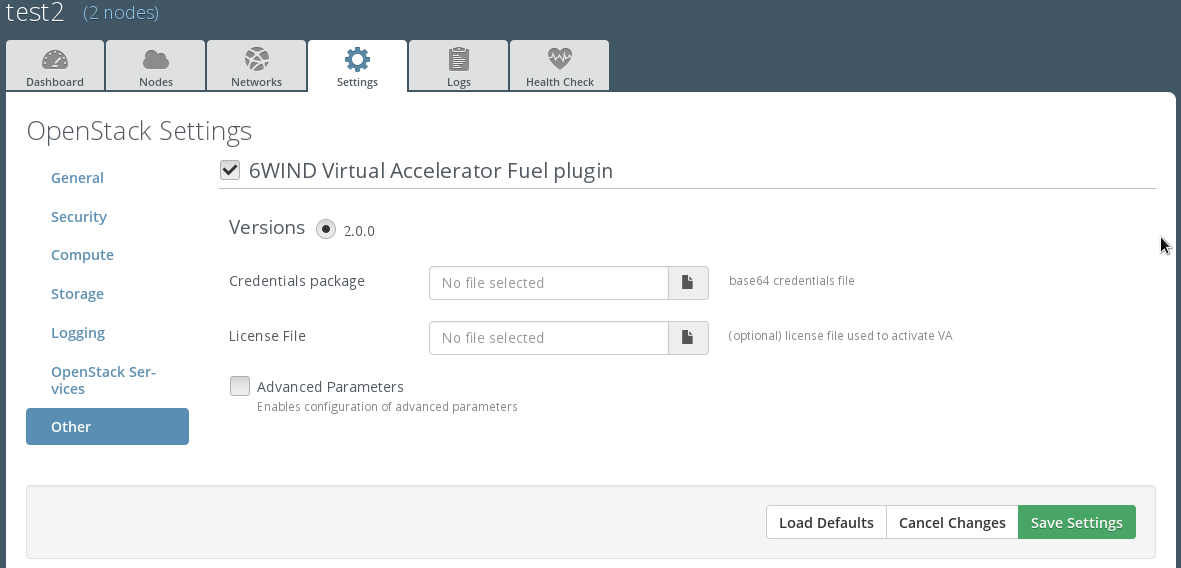
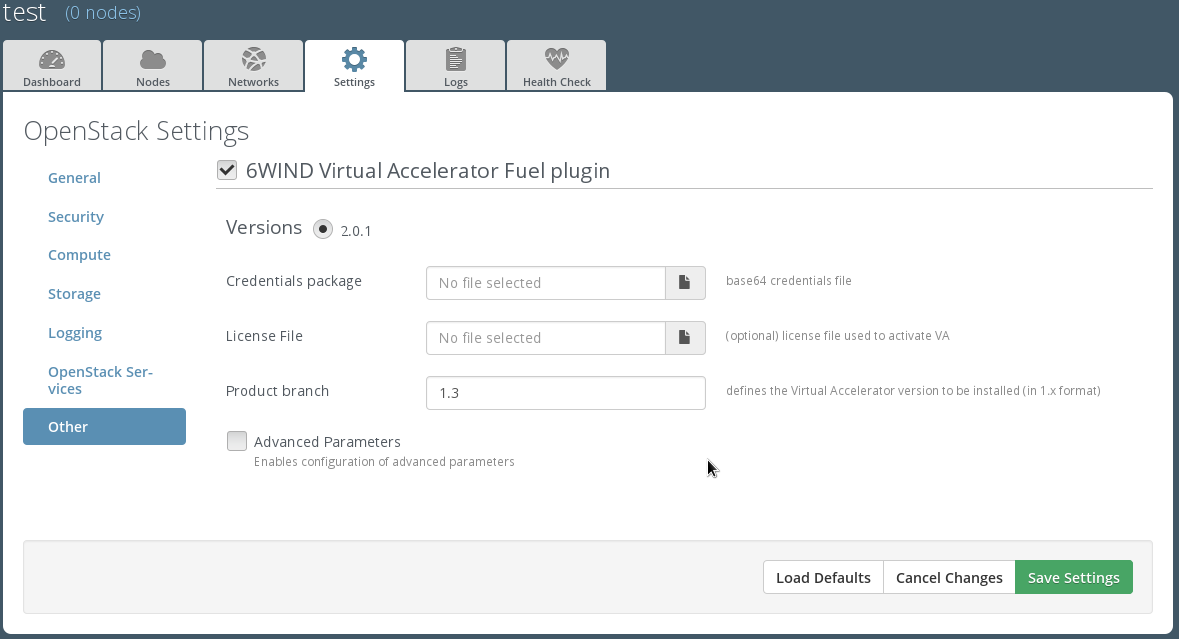
6wind-virtual-accelerator-plugin: add support for multiple product version
This patch adds a field to define which version of 6WIND Virtual
Accelerator will be installed.
Moreover the default value now points to the last stable version thus we
need to make sure to disable ipset ONLY when using the Virtual
Accelerator 1.3.

diff --git a/doc/source/installation.rst b/doc/source/installation.rst
@@ -109,6 +109,11 @@ Configuring 6WIND Virtual Accelerator Plugin
     *   Provide the license file to be used for 6WIND Virtual Accelerator
         activation
 
+    *   Specify the 6WIND Virtual Accelerator version you want to install.
+        You can keep the 'stable' default value if you want the latest
+        version, otherwise specify an explicit value (eg. 1.3).
+        Remember to use **at least version 1.3** for Fuel 8.
+
     *   Refer to next chapter for the description of Advanced Paramaters fields.
 
 
